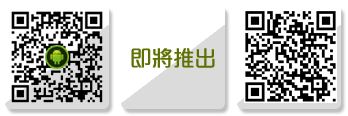
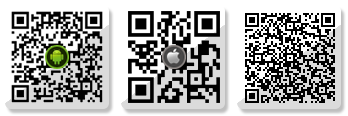
Add app store link

Changed region(s): [[0.6897, 0.0776, 0.977, 0.9052], [0.3448, 0.0776, 0.6322, 0.9052]]

diff --git a/index0.html b/index0.html
@@ -30,7 +30,7 @@
 				<div class="qrcode"></div>
 			</li>
 			<li class="dl-ios">
-				<a href="#" class="btn" target="_blank"></a>
+				<a href="https://itunes.apple.com/tw/app/xun-long-xing-ba-ke/id949739366?mt=8" class="btn" target="_blank"></a>
 				<div class="qrcode"></div>
 			</li><li class="dl-appmaster">
 				<a href="http://android.app-master.com.tw/market/info/info/36" class="btn" target="_blank"></a>
